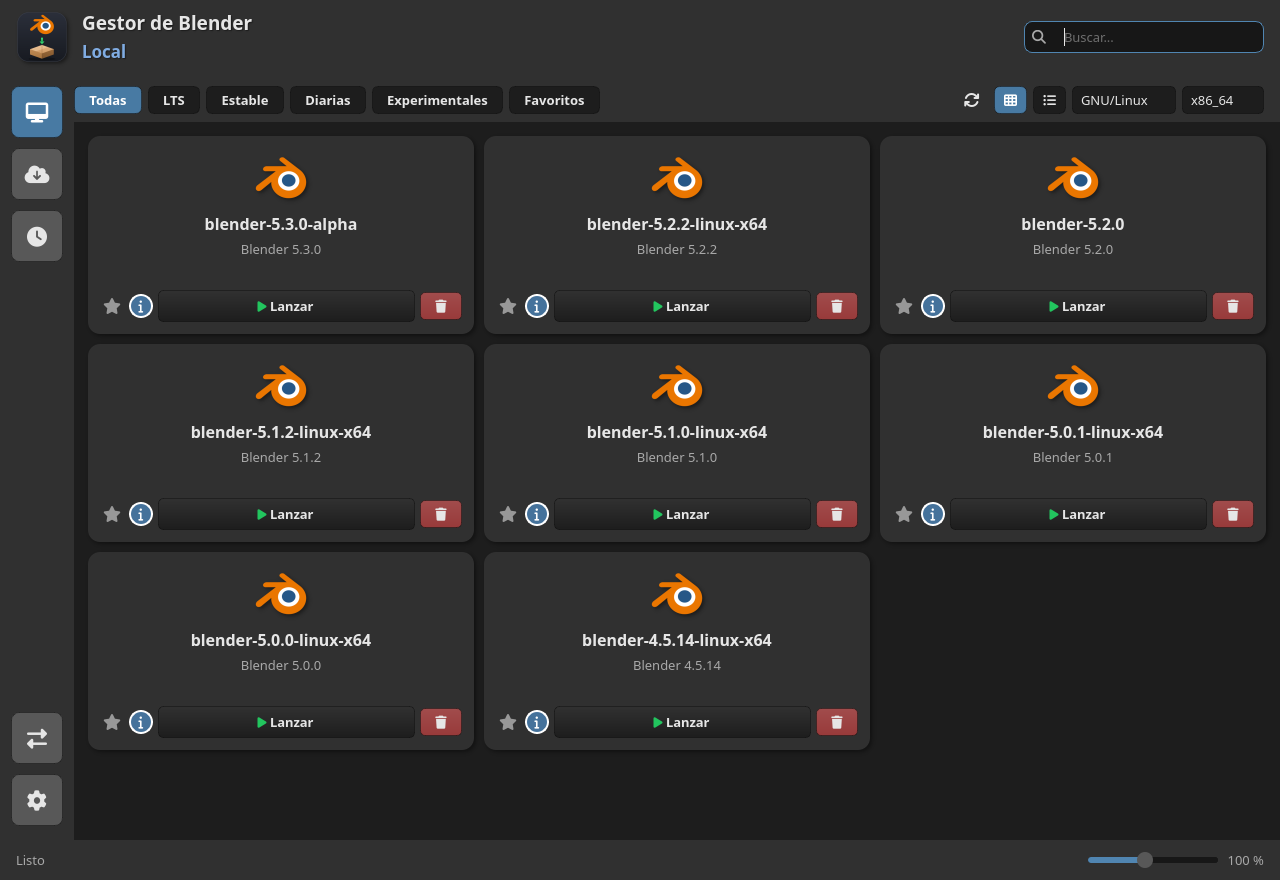
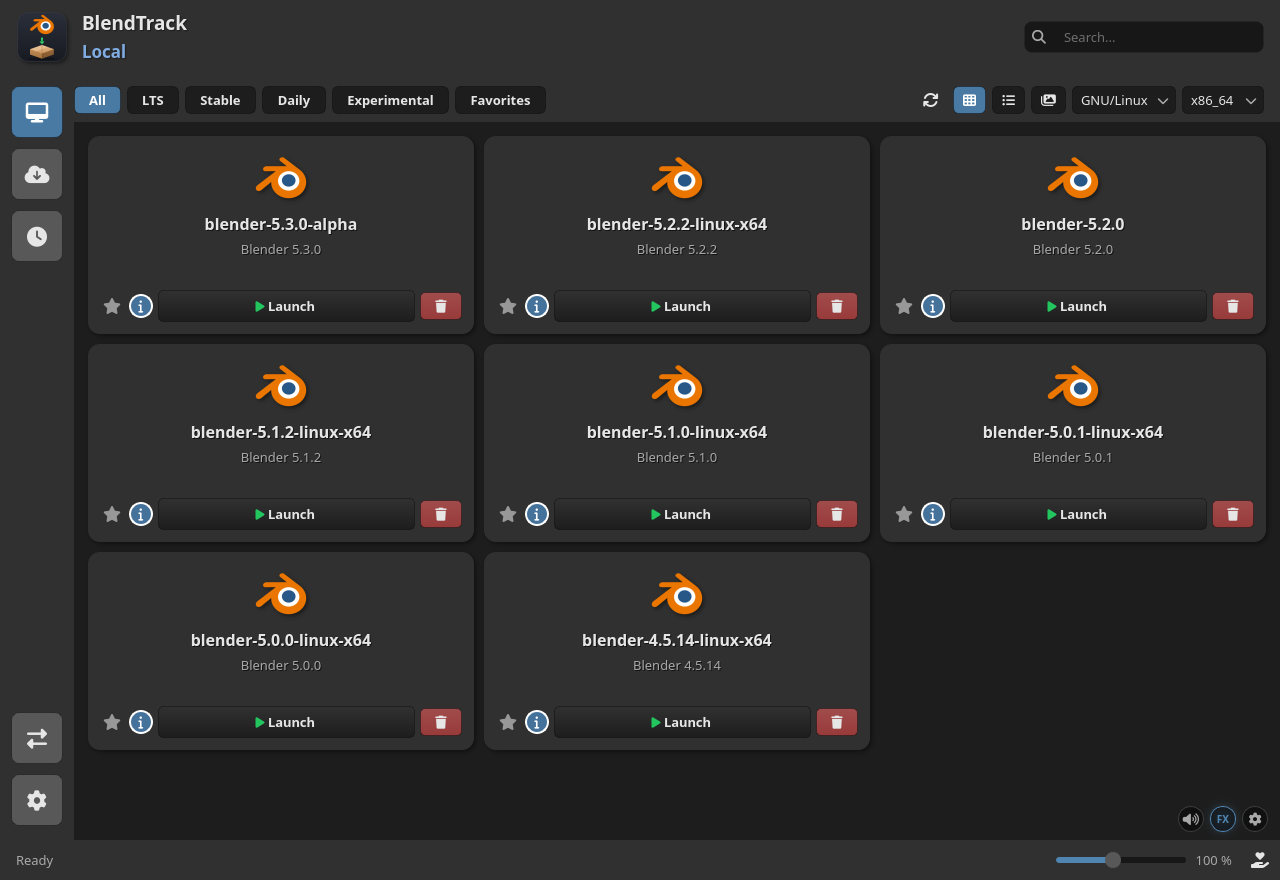
docs: capturas en ingles, con el nombre nuevo y en modo lista
Las capturas del README eran de cuando la app se llamaba Blender Manager y
estaban en español. Se regeneran con packaging/capture_docs.py:

- El idioma se fija en el settings.json temporal (semilla {"language": "en"}),
  asi que las capturas no dependen del locale de la maquina.
- Se anaden store_list e installed_list para poder ensenar tambien el modo
  lista.
- La ventana ya muestra BlendTrack (la captura de tienda en rejilla se ve con
  el nombre nuevo y la interfaz en ingles).

README: se enlaza la vista de lista. doc/03: se corrige la nota que decia
1280x624 y en español.

diff --git a/packaging/capture_docs.py b/packaging/capture_docs.py
@@ -2,9 +2,12 @@
 
 Uso:  QT_QPA_PLATFORM=offscreen .venv/bin/python packaging/capture_docs.py
 
-Las capturas del README son 1280x880, en español y con la barra de filtros
-visible. El alto es holgado a propósito: con 624 px la última fila de tarjetas
-de la tienda salía cortada por abajo (la rejilla tiene más filas que la lista).
+Las capturas del README son 1280x880, **en inglés** (el idioma se fija en los
+ajustes temporales, así no dependen del locale de la máquina) y con la barra de
+filtros visible. Hay rejilla y lista (`store_grid`/`store_list`,
+`installed_grid`/`installed_list`) para poder enseñar los dos modos. El alto es
+holgado a propósito: con 624 px la última fila de tarjetas de la tienda salía
+cortada por abajo (la rejilla tiene más filas que la lista).
 Se hacen con el plugin offscreen de Qt, así que no hace falta servidor gráfico
 (a diferencia del Kivy antiguo, que necesitaba ventana real).
 
@@ -89,9 +92,15 @@ def main() -> None:
     # zoom pendiente) pero aquí no debe tocar nada del usuario.
     with tempfile.TemporaryDirectory() as temp:
         settings_service.config_dir = lambda: Path(temp)
+        # Semilla del settings.json temporal: idioma fijo en inglés. MainWindow
+        # relee los ajustes al arrancar (``i18n.set_language(settings.language)``),
+        # así que fijarlo aquí es lo que hace que la captura salga en inglés y
+        # no en el idioma del sistema.
+        (Path(temp) / "settings.json").write_text(
+            '{"language": "en"}', encoding="utf-8")
 
         app = QApplication([])
-        i18n.set_language("es")
+        i18n.set_language("en")
         fonts.load()
         app.setStyleSheet(qss.build_qss())
 
@@ -127,6 +136,17 @@ def main() -> None:
         def save_store_grid():
             window.grab().save(str(OUT / "store_grid.png"))
             print("guardada store_grid.png")
+            QTimer.singleShot(300, capture_store_list)
+
+        def capture_store_list():
+            # El modo lista enseña más versiones por pantalla que la rejilla;
+            # útil para la documentación además de la rejilla.
+            window.set_layout_mode("list")
+            QTimer.singleShot(600, save_store_list)
+
+        def save_store_list():
+            window.grab().save(str(OUT / "store_list.png"))
+            print("guardada store_list.png")
             QTimer.singleShot(300, capture_installed_grid)
 
         def capture_installed_grid():
@@ -137,6 +157,15 @@ def main() -> None:
         def save_installed_grid():
             window.grab().save(str(OUT / "installed_grid.png"))
             print("guardada installed_grid.png")
+            QTimer.singleShot(300, capture_installed_list)
+
+        def capture_installed_list():
+            window.set_layout_mode("list")
+            QTimer.singleShot(600, save_installed_list)
+
+        def save_installed_list():
+            window.grab().save(str(OUT / "installed_list.png"))
+            print("guardada installed_list.png")
             QTimer.singleShot(300, capture_migrate)
 
         def capture_migrate():

diff --git a/doc/03-diseno-ui-ux.md b/doc/03-diseno-ui-ux.md
@@ -19,28 +19,45 @@ Los colores están en `src/ui/theme.py` y el QSS los usa con f-strings
 
 ## Paleta (lo esencial)
 
+**La fuente de verdad es `src/ui/theme.py`**: cada color lleva al lado su
+contraste medido y el porqué (y `ContrastTests` los vigila). Esta tabla es un
+resumen para orientarse; si no cuadra con `theme.py`, manda `theme.py`.
+
 | Constante | Color | Para qué |
 |---|---|---|
 | `BG` | `#1D1D1D` | Fondo de la ventana (lo más oscuro) |
 | `FIELD` | `#171717` | Campos de texto (hundidos) |
-| `CARD_DIM` / `CARD_DIM_ALT` | oscuros | Tarjeta de la tienda que no tienes |
-| `SURFACE` | `#303030` | Paneles, tarjetas instaladas, barra lateral |
-| `CHROME` | `#303030` | Cabecera y pie |
+| `CARD_DIM` / `CARD_DIM_ALT` | `#262626` / `#202020` | Tarjeta de la tienda que no tienes |
+| `SURFACE` / `CHROME` | `#303030` | Paneles, tarjetas instaladas, barras |
 | `SURFACE_ALT` | `#3D3D3D` | Resaltado al pasar el ratón |
 | `BUTTON` | `#585858` | Botones neutros (gris de pestaña de Blender) |
-| `TEXT` | `#E6E6E6` | Texto principal |
-| `MUTED` | `#989898` | Texto secundario/apagado |
-| `ACCENT` | `#5085B1` | Azul de selección/acción principal |
-| `ACCENT_DARK` | `#3F6F96` | Azul pulsado/hover |
-| `WARNING` | `#FFAF23` | Naranja (etiqueta LTS) |
-| `DANGER` | `#B84A4A` | Rojo (desinstalar) |
+| `TEXT` / `MUTED` / `TEXT_DIM` | `#E6E6E6` / `#A8A8A8` / `#B4B4B4` | Texto principal / secundario / título de lo no instalado |
+| `ACCENT` | `#5085B1` | Azul de **bordes e indicadores** (3:1) |
+| `ACCENT_SELECTED` / `ACCENT_BTN` | `#487AA3` / `#325B82` | El azul cuando lleva **texto** encima (4,5:1) |
+| `WARNING` | `#FFAF23` | Naranja (LTS) |
+| `DANGER` / `DANGER_BTN` | `#B84A4A` / `#983A3A` | Rojo de borde / relleno del botón borrar |
 | `SUCCESS_TEXT` | `#6FCF7A` | Verde claro para texto "Instalada" |
-| `INFO_TEXT` | `#7AA7E0` | Azul claro para etiquetas de canal |
+| `INFO_TEXT` | `#80ACE2` | Azul claro para etiquetas de canal |
+| `TESTING` | `#8E6CD8` | Violeta: luz de las versiones en pruebas (solo luz, nunca texto) |
 
 > Importante: los colores de texto llevan el sufijo `_TEXT` porque son más
 > claros que los de fondo o de borde del mismo tono (`INFO_DISC`, `ACCENT`):
 > un verde o un azul pensados para rellenar se leen mal como texto sobre una
-> tarjeta.
+> tarjeta. Por lo mismo, **el azul de un borde no sirve de relleno con texto**:
+> blanco sobre `ACCENT` se quedaba en 3,94:1, y por eso existen
+> `ACCENT_SELECTED` y `ACCENT_BTN`.
+
+Lecciones que dejó medir en vez de mirar (están explicadas en `theme.py`):
+
+- El texto se mide en su **peor fondo**, no en el habitual: `MUTED` pasaba
+  sobre la tarjeta pero bajaba a 3,77:1 con el ratón encima (`SURFACE_ALT`).
+- Un botón con degradado se mide en su **punto más claro** (el 9 % de blanco
+  de arriba).
+- Pulsar **oscurece**: el botón primario antes se aclaraba al pulsar y el texto
+  bajaba a 2,72:1.
+- Antes de dar color a algo nuevo, mira qué significa ya: el verde es
+  "instalada / lanzar", así que ni las experimentales ni los forks llevan verde
+  (y los forks no usan el color de su logo porque coincidía con estable y LTS).
 
 ## Cómo se comunica el estado
 
@@ -118,3 +135,81 @@ no la llevan.
    `[iconOnly="true"]`, `[variant="danger"]`).
 4. Arranca con `./run.sh` y mira el resultado; para probar sin pantalla, el
    plugin *offscreen* de Qt (ver el capítulo 02).
+
+## Decisiones de diseño (y por qué)
+
+Los principios generales (contraste, estados, tooltips, movimiento) están en la
+skill `ux-ui-expert`; aquí, cómo se aplicaron en BlendTrack.
+
+- **Tooltips en todo** (2026-09-16): botones, campos, desplegables,
+  interruptores y sliders. Un test falla si un filtro, control principal o
+  botón de tarjeta se queda sin él. Explican el para qué y el argot: "LTS"
+  dice *"LTS = soporte a largo plazo… versiones mantenidas durante años y las
+  más estables. Recomendadas para trabajar a diario."*; "Diarias" avisa de
+  que pueden fallar. Un `\n` hace salto de línea.
+- **Nada de botones "Sí/No"**: los ajustes son interruptores pintados a mano
+  (pista + bolita), con hover, pulsado, activo, deshabilitado y aro de foco.
+- **Un interruptor por decisión**: "Iniciar automáticamente al iniciar sesión"
+  e "Iniciar minimizado en la bandeja" van separados.
+- **Lo que la plataforma no puede cumplir no se ofrece roto**: minimizar a la
+  bandeja en Wayland/KDE o el autoarranque no soportado se deshabilitan
+  diciendo el motivo; si algo necesita reiniciar, se avisa.
+- **Color de la luz de la galería** (2026-10-09): naranja = LTS (el mismo
+  `WARNING` del rótulo "LTS"), azul = estable, violeta (`TESTING`) = diarias,
+  alfas, beta y experimentales; turquesa y magenta para los forks.
+- **Galería**: cartas verticales ~1:1,55 cuyo ancho sale del alto disponible
+  (con mínimo y máximo) y 22 px de aire al techo; las lejanas desaturan ~45 %
+  y oscurecen ~16 % por puesto. La carta inclinada sigue dejando pulsar sus
+  botones. El fondo lleva *dithering* contra el banding.
+- **Tiempos**: Ajustes baja en 280 ms, la tarjeta "se levanta" en 160 ms, la
+  estrella hace pop en 420 ms; siempre `OutCubic`.
+- **Efectos desactivables** en Ajustes > Interfaz: inclinación, sonidos (con
+  silencio a mano en la propia vista) y láser. Sonido en dos capas: tic al
+  pasar, "clac" al seleccionar, volumen bajo.
+- **Línea de atajos al pie** de la galería (← → ↑ Intro 1–6), recortada con
+  "…" antes que meterse bajo los botones de la esquina.
+- **Popups al estilo Blender**: colores reales de sus popovers
+  (`wcol_menu_back` en `release/datafiles/userdef/userdef_default_theme.c`,
+  comprobado 2026-10-10): fondo `#181818`, borde `#242424`, más
+  `rgba(24,24,24,235)` y sombra suave. Dentro, el carril del deslizador va en
+  `SURFACE_ALT` (en `FIELD` se perdía).
+- "LTS + Stable" se quitó de la barra de filtros: era el más largo y
+  redundante, y desbordaba a 880 px en español.
+- El código y el rendimiento de los efectos: skill `pyside6-expert` §11.
+
+## Capturas de documentación (`docs/img/`)
+
+- **1280×880**, en inglés (el idioma se fija en los ajustes temporales, no
+  depende del locale), con la barra de filtros visible. Rejilla y lista
+  (`store_grid`/`store_list`, `installed_grid`/`installed_list`).
+- Una vista poblada, al menos una versión de cada tipo, un filtro activo; sin
+  tooltips, popups ni descargas en curso. `--screenshot` espera 6 s a los datos.
+- Con la **ventana real**: en *offscreen* pueden salir zonas negras si el
+  tamaño no cuadra con el framebuffer.
+- Los estados que no se dan solos se provocan por código, p. ej.
+  `root._show_update_available("v1.2.0", {...})`.
+
+## Fallos visuales ya diagnosticados
+
+| Síntoma | Causa y arreglo |
+|---|---|
+| El elemento no se resalta al pasar el ratón | (a) `#Card[installed="true"]` y `#Card:hover` empatan y gana la última regla → los `:hover` al final; (b) el padre no recibe hover con el ratón sobre un hijo → propiedad dinámica en `enterEvent`/`leaveEvent` (+ `unpolish`/`polish`) |
+| Recuadro de fondo alrededor de un bloque | Un `QWidget` contenedor hereda el fondo de `QWidget { ... }`: `objectName` + `background: transparent` (cabecera, `QSlider`) |
+| Sale un cuadro (tofu) en vez de un icono | Qt no mezcla fuentes en el texto de un control: `QIcon` (`glyph_icon()`) o un botón que **es** icono |
+| La barra de progreso aparece sin descarga | `QProgressBar`/`QSlider` se ven por defecto: `setVisible(False)` hasta que apliquen |
+| La última tarjeta de la rejilla se corta | Más columnas de las que caben al ancho mínimo real (227 px medidos): `max(ancho_objetivo, 230)` |
+| El diálogo sale con el estilo claro del escritorio | `QMessageBox`/`QDialog` no siguen el tema: `AppDialog` propio |
+| La barra de filtros se sale por la derecha | Controles de ancho fijo que no envuelven: probar a 880 px (mínimo de la ventana) y en español |
+| Un canal poco frecuente siempre sale vacío | Estado vacío propio ("no hay ramas experimentales ahora mismo") |
+| Las tarjetas no miden igual | Un `QLabel` pide como mínimo su texto completo (483 px → tarjeta de 507 frente a 249): `ElidedLabel` |
+| El diálogo corta el texto | Qt mide el `QLabel` con `wordWrap` antes de aplicar la fuente del QSS (90 px cuando necesitaba 108): recalcular el alto en `resizeEvent` + ancho máximo |
+| Los logos de lo no instalado no se atenúan | `opacity` en QSS no afecta a un `QLabel` con pixmap: pintar la opacidad en el pixmap |
+| Mucho hueco entre refrescar y el buscador | El bloque se estiraba (97 px a 1500 px de ancho): `QSizePolicy.Fixed` + `Qt.AlignRight` |
+| Los botones se ven planos | El degradado se mezcla en el color (QSS no apila fondos) |
+| Dice "al día" y hay versión nueva | La comprobación fallaba (TLS) y el mensaje decía "ya tienes la última". Log `update check: instalada=… ultima=… hay_nueva=…` |
+| "argar como" en vez de "Descargar como copia" | Al añadir botones el diálogo no se ensanchaba: recalcular el ancho mínimo por botón |
+| "Fallo en la descarga" sin motivo | Mostrar el motivo real y comprobar antes que el destino se puede escribir |
+| La ventana arranca cortando la tercera fila | Alto por defecto medido (~741 px para 3 filas al 80 %, no 680) y "Restablecer tamaño" en Ajustes |
+| Ajustes recorta la última fila | La tarjeta pedía 442 px donde había ~406: `QScrollArea` con `setWidgetResizable(True)` |
+
+Los de la versión Kivy (rama `master`) están en la skill `kivy-expert`.

diff --git a/README.md b/README.md
@@ -12,6 +12,12 @@ file written in Python with PySide6/Qt.
 <sub>Every build in one screen, with channel tabs, search, and a grid or list
 view.</sub>
 
+<p align="center">
+  <img width="72%" alt="BlendTrack store, list view" src="docs/img/store_list.png">
+</p>
+
+<sub>The same store in list view, when you want more versions per screen.</sub>
+
 **Get it:** [latest release](https://github.com/zebus3d/BlendTrack/releases/latest)
 — AppImage for Linux, a single `.exe` for Windows, a `.zip` for macOS.
 
